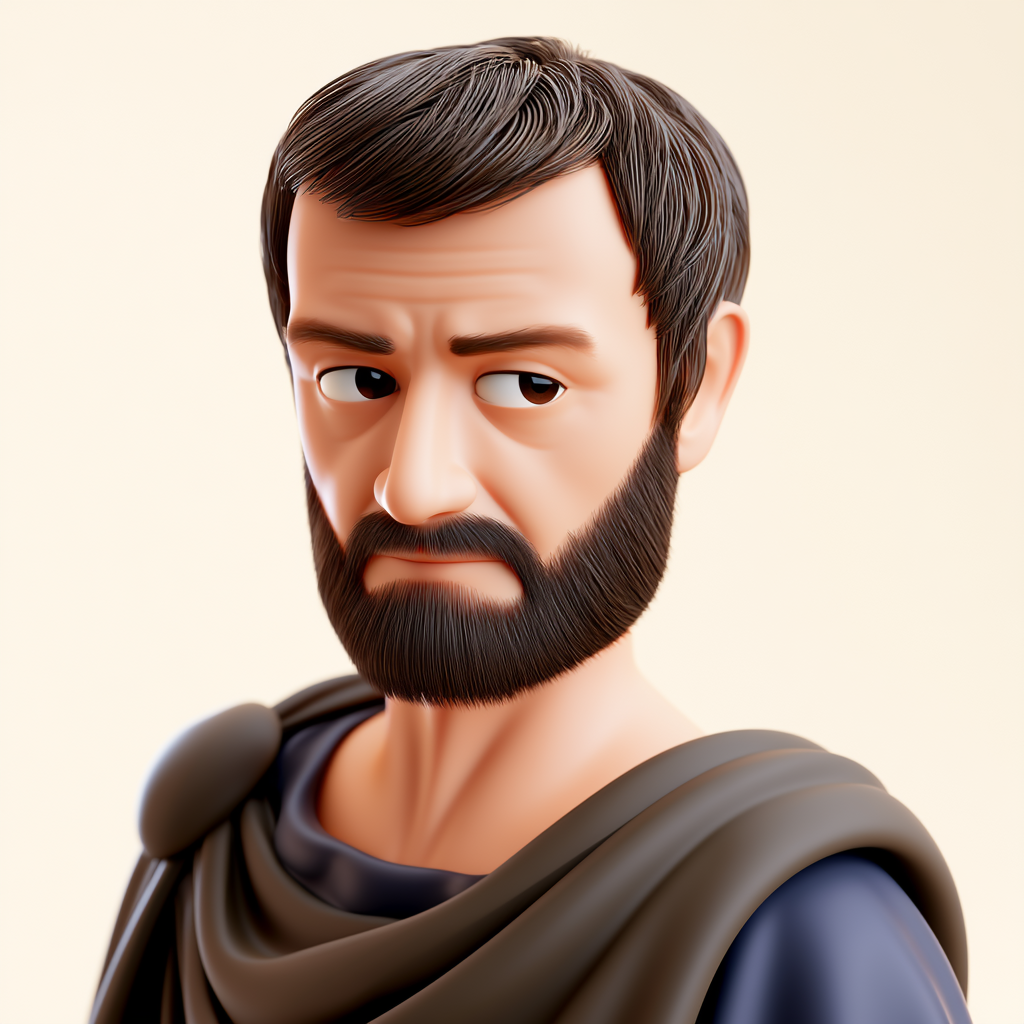
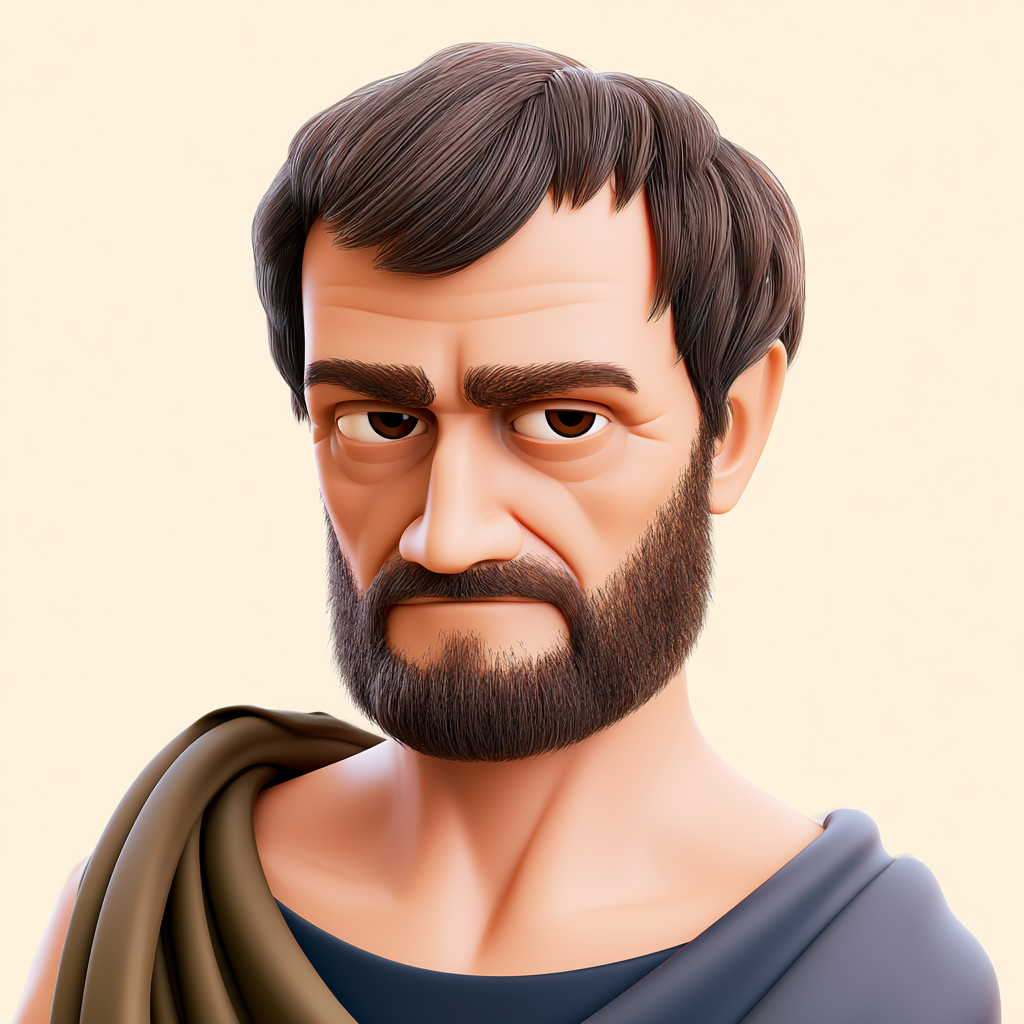
feat: intro block content, dark/light mode, portraits, account fixes, text padding fix

diff --git a/constants/data.ts b/constants/data.ts
@@ -1,5 +1,13 @@
 export const blocks = [
   {
+    id: 'intro',
+    name: 'Introducción',
+    era: 'Antes de empezar',
+    symbol: 'lens',
+    isFree: true,
+    authors: ['intro-1', 'intro-2', 'intro-3', 'intro-4'],
+  },
+  {
     id: 'b0',
     name: 'Orígenes filosóficos',
     era: 'Antigüedad y Edad Media',
@@ -50,6 +58,87 @@ export const blocks = [
 ];
 
 export const authors = [
+
+  {
+    id: 'intro-1',
+    name: 'El origen de la pregunta',
+    subtitle: 'Mesopotamia y Egipto',
+    dates: '3000–500 a.C.',
+    blockId: 'intro',
+    layerType: 'two',
+    surface: {
+      question: '¿Sabías que el sufrimiento psicológico buscó nombre y cuidado miles de años antes de que existiera la psicología?',
+      text: `Hace cinco mil años, en Mesopotamia, alguien que no podía dormir — que veía cosas que otros no veían, que sentía un peso que no tenía nombre — buscaba a alguien que lo escuchara. No un médico. No un psicólogo. Esos nombres no existían todavía. Solo alguien que supiera qué hacer con ese dolor.\n\nLo interesante no es que eso haya ocurrido. Lo interesante es que nunca dejó de ocurrir.\n\nEn esa misma época, en Egipto, los médicos ya describían algo que hoy reconoceríamos como tristeza profunda — el retiro del mundo, la incapacidad de actuar, la sensación de que nada tiene sentido. Y entre sus tratamientos incluían una práctica que llamaban "hablar al corazón". La primera referencia conocida a la palabra como herramienta terapéutica. Tres mil años antes de que alguien la llamara psicoterapia.\n\nEso es lo que encontrarás en este recorrido: que las preguntas que te haces hoy tienen historia. Que el sufrimiento humano siempre buscó nombre, explicación y cuidado. Y que entender ese camino — desde sus orígenes hasta hoy — cambia cómo te ves a ti mismo y cómo ves a los demás.`,
+      closingLine: 'Lo interesante no es que eso haya ocurrido. Lo interesante es que nunca dejó de ocurrir.',
+    },
+    concept: {
+      question: '¿Qué tienen en común las culturas curativas de todas las épocas?',
+      text: `Lo que Mesopotamia y Egipto tenían — y que a veces la psicología moderna olvida — era una comprensión simple pero poderosa: el sufrimiento psicológico es real, merece atención, y no hay que enfrentarlo solo.\n\nEl especialista mesopotámico que atendía a alguien en crisis no le decía que estaba simulando ni que era débil. Identificaba lo que ocurría, le daba un nombre y proponía algo concreto. La estructura era: síntoma — especialista — procedimiento. Eso, en su forma más básica, es exactamente lo que sigue ocurriendo hoy en cualquier consulta de psicología o psiquiatría.\n\nSiglos después, el psiquiatra Jerome Frank estudió culturas curativas de todo el mundo y encontró algo sorprendente: todas, sin excepción, compartían cuatro elementos. Una relación con alguien percibido como sanador. Un espacio que la comunidad reconoce como lugar legítimo para sanar. Una explicación que da sentido al sufrimiento. Y un procedimiento que tanto el sanador como quien sufre creen que puede ayudar.\n\nMesopotamia tenía los cuatro. La psicoterapia contemporánea también los tiene. La forma cambió. La estructura, no.`,
+      closingLine: '¿Hay algo sobre ti mismo o sobre los demás que siempre quisiste entender mejor? Ese es exactamente el tipo de pregunta que este recorrido existe para acompañar.',
+    },
+  },
+
+  {
+    id: 'intro-2',
+    name: 'Qué es y qué no es la psicología',
+    subtitle: 'Desmonta mitos, define el campo honestamente',
+    dates: '',
+    blockId: 'intro',
+    layerType: 'two',
+    surface: {
+      question: '¿Qué imagen tienes de la psicología?',
+      text: `La psicología no es lo que aparece en las películas.\n\nNo es un consultorio oscuro donde alguien te pide que hables de tu madre. No es leer la mente. No es tener respuestas para todo lo que te pasa. Y definitivamente no es dividir a las personas en tipos — los introvertidos por acá, los extrovertidos por allá.\n\nLo que la psicología sí es resulta más interesante y más útil que cualquiera de esas versiones. Es el estudio sistemático de la experiencia y el comportamiento humano — cómo percibimos, cómo pensamos, cómo sentimos, cómo actuamos, y por qué hacemos lo que hacemos aunque a veces no tenga ningún sentido.\n\nNo tiene una sola respuesta para esas preguntas. Tiene varias escuelas, varios métodos, varios marcos. Eso no es una debilidad — es la señal de que el objeto de estudio es genuinamente complejo.\n\nLo que encontrarás en este recorrido no es la verdad sobre la mente humana. Es algo mejor: las mejores preguntas que la humanidad ha sabido hacerse sobre ella, y los marcos más sólidos que ha construido para responderlas.`,
+      closingLine: 'Lo que encontrarás aquí no es la verdad sobre la mente humana. Es algo mejor.',
+    },
+    concept: {
+      question: '¿Qué ganas cuando aprendes a usar varios marcos en lugar de buscar el correcto?',
+      text: `Hay una distinción que vale la pena tener clara desde el principio: la psicología no es una sola cosa.\n\nEs, al mismo tiempo, una ciencia básica que estudia procesos como la memoria, la percepción y la atención. Una ciencia aplicada que desarrolla intervenciones para el sufrimiento psicológico. Una disciplina con raíces filosóficas que se remontan dos mil quinientos años. Y un campo en conversación permanente con la neurociencia, la biología, la sociología y la cultura.\n\nA lo largo de este recorrido vas a encontrar pensadores que se contradicen entre sí. Freud y Skinner no estarían de acuerdo en casi nada. Rogers y Beck tampoco. Eso no significa que uno tenga razón y el otro esté equivocado — significa que cada uno ilumina algo que el otro no ve.\n\nLa forma más honesta de acercarse a la psicología no es buscar el marco correcto. Es aprender a usar varios marcos como lentes distintos sobre el mismo objeto. Algunos te van a servir más que otros. Pero cuantos más tengas, más clara se vuelve la imagen.`,
+      closingLine: 'Eso es exactamente lo que Psylens intenta hacer: darte más lentes.',
+    },
+  },
+
+  {
+    id: 'intro-3',
+    name: 'Por qué este camino tiene este orden',
+    subtitle: 'Por qué Aristóteles viene antes que Beck',
+    dates: '',
+    blockId: 'intro',
+    layerType: 'two',
+    surface: {
+      question: '¿Por qué empezar por los griegos y no directamente con Freud?',
+      text: `Podrías preguntarte por qué este recorrido empieza con filósofos griegos y no directamente con Freud o con la psicoterapia moderna.\n\nLa respuesta corta es que las ideas no aparecen de la nada.\n\nEn los años sesenta, un psiquiatra llamado Aaron Beck propuso algo que en su momento sonó radical: que el sufrimiento psicológico no viene solo de lo que nos pasa, sino de cómo interpretamos lo que nos pasa. Que si alguien te ignora en la calle y concluyes automáticamente "me odia" o "soy invisible", esa conclusión — no el hecho — es lo que produce el malestar.\n\nLo que Beck probablemente no sabía es que Aristóteles había llegado a algo muy similar dos mil años antes. Para Aristóteles, las emociones no eran reacciones que simplemente te ocurrían — eran formas de leer la situación. El miedo aparece cuando percibes que algo te amenaza. La tristeza, cuando percibes que perdiste algo valioso. Cada emoción lleva dentro una interpretación del mundo. Y si la interpretación cambia, la emoción también cambia.\n\nLas ideas viajan a través del tiempo aunque no siempre sepamos de dónde vienen. Este recorrido sigue el orden cronológico porque ese orden tiene una lógica. Cada autor respondió a alguien que vino antes. Entender ese hilo hace que cada idea tenga más peso.`,
+      closingLine: 'Cada autor respondió a alguien que vino antes. Entender ese hilo hace que cada idea tenga más peso.',
+    },
+    concept: {
+      question: '¿Qué se pierde cuando aprendes solo los resultados y no el contexto?',
+      text: `Hay otra razón para el orden cronológico que es más personal.\n\nCuando aprendes solo los resultados — las técnicas, los modelos, los nombres — tienes herramientas. Pero no sabes por qué esas herramientas tienen la forma que tienen. No sabes qué pregunta intentaban responder. Y eso importa, porque una herramienta sin contexto puede usarse mal.\n\nLos filósofos estoicos — Epicteto, Marco Aurelio, Séneca — enseñaban que el sufrimiento no viene de los hechos sino de cómo los juzgamos. Que entre lo que ocurre y lo que sentimos hay siempre una interpretación, y que esa interpretación es el único lugar donde tenemos algo de control. Esa idea, formulada hace dos mil años en el Mediterráneo, es el fundamento filosófico de buena parte de la psicoterapia contemporánea. Llegará más adelante en el recorrido con nombres y métodos distintos. Pero la raíz está aquí.\n\nEl orden cronológico también hace algo más sutil: te muestra que la psicología es un proyecto colectivo e inacabado. Que cada autor aportó algo y dejó preguntas abiertas. Que lo que hoy parece obvio fue, en su momento, una ruptura radical con todo lo anterior.\n\nY que las preguntas más importantes — qué somos, por qué sufrimos, cómo cambiamos — siguen siendo preguntas.`,
+      closingLine: 'El recorrido no termina con una respuesta definitiva. Termina con una forma más clara de seguir preguntando.',
+    },
+  },
+
+  {
+    id: 'intro-4',
+    name: 'Así funciona cada capa',
+    subtitle: 'Superficie, Concepto y Fondo',
+    dates: '',
+    blockId: 'intro',
+    layerType: 'three',
+    surface: {
+      question: '¿Cómo funciona este recorrido?',
+      text: `A partir de ahora, cada autor que encuentres en el camino tiene tres capas.\n\nLa primera es esta — la Superficie. Siempre empieza cerca: una situación reconocible, una pregunta que no requiere ningún conocimiento previo. No necesitas haber estudiado psicología ni filosofía para seguirla. Solo necesitas estar dispuesto a mirar.`,
+      closingLine: 'Es la puerta de entrada a cada idea. Y todas las puertas de este recorrido están abiertas.',
+    },
+    concept: {
+      question: '¿Cuál es la diferencia entre reconocer una idea y poder usarla?',
+      text: `La segunda capa es donde aparece el mecanismo.\n\nSi la Superficie te sitúa — te muestra el paisaje desde afuera — el Concepto te lleva adentro. Aquí es donde los términos técnicos entran al texto, siempre explicados, nunca como adorno. Donde se describe cómo funciona una idea, no solo qué es.\n\nNo es más difícil. Es más preciso. La diferencia entre saber que el miedo "tiene que ver con amenazas" y entender que para Aristóteles el miedo era una lectura de la situación — una interpretación de lo que está pasando — es la diferencia entre reconocer algo y poder usarlo.`,
+      closingLine: 'El Concepto existe para darte ese segundo nivel. El que convierte la intuición en comprensión.',
+    },
+    fondo: {
+      question: '¿Qué convierte la información en lente?',
+      text: `La tercera capa es la más lenta — en el buen sentido.\n\nNo explica un mecanismo. Pregunta qué implica ese mecanismo. Qué cambió en la historia del pensamiento cuando alguien propuso esa idea. Cómo conecta con lo que vino antes y con lo que vendrá después.\n\nEs la capa donde las ideas dejan de ser información y se convierten en lentes. Donde Schopenhauer deja de ser un nombre en una línea de tiempo y se convierte en alguien que vio algo que nadie había visto antes — y que Freud vería de nuevo, décadas después, por otro camino.\n\nEs la capa que más se queda.`,
+      closingLine: 'Ya sabes por qué estás aquí. Ahora comienza tu propio camino.',
+    },
+  },
 
   {
     id: 'heraclito-democrito',

diff --git a/app/(tabs)/index.tsx b/app/(tabs)/index.tsx
@@ -467,6 +467,7 @@ function makeStyles(theme: Theme) {
       fontWeight: '700',
       fontFamily: 'PlayfairDisplay_700Bold',
       color: theme.text,
+      paddingRight: 130,
       marginBottom: spacing.xs,
     },
     continueDates: {

diff --git a/app/(tabs)/yo.tsx b/app/(tabs)/yo.tsx
@@ -204,6 +204,7 @@ export default function YoScreen() {
               'psylens_is_premium',
               'psylens_unlocked',
               'psylens_days_visited',
+              'psylens_user_name',
             ]).catch(() => {});
             router.replace('/splash');
           },

diff --git a/docs/psylence_intro_block.md b/docs/psylence_intro_block.md
@@ -1,0 +1,201 @@
+# Psylence — Bloque de Introducción
+## Contenido completo listo para integrar a constants/data.ts
+
+---
+
+## Estructura del bloque
+
+```
+BLOQUE · INTRODUCCIÓN
+"Antes de empezar, entiende por qué estás aquí"
+
+├── Intro 1 — El origen de la pregunta
+│   2 capas: Entrada + Profundidad
+│
+├── Intro 2 — Qué es y qué no es la psicología
+│   2 capas: Entrada + Profundidad
+│
+├── Intro 3 — Por qué este camino tiene este orden
+│   2 capas: Entrada + Profundidad
+│
+└── Intro 4 — Así funciona cada capa
+    3 capas: Superficie + Concepto + Fondo
+    Cierre: "Ya sabes por qué estás aquí. Ahora comienza tu propio camino."
+```
+
+**Notas de implementación:**
+- Intros 1, 2 y 3 tienen 2 capas (Entrada + Profundidad), no 3
+- Intro 4 tiene 3 capas (Superficie + Concepto + Fondo)
+- El bloque completo debe terminarse para desbloquear el Bloque 0
+- Sin portrait individual — usar SVG abstracto o ilustración
+
+---
+
+## Intro 1 — El origen de la pregunta
+*Siempre quisimos entender*
+
+### ENTRADA
+
+Hace cinco mil años, en Mesopotamia, alguien que no podía dormir — que veía cosas que otros no veían, que sentía un peso que no tenía nombre — buscaba a alguien que lo escuchara. No un médico. No un psicólogo. Esos nombres no existían todavía. Solo alguien que supiera qué hacer con ese dolor.
+
+Lo interesante no es que eso haya ocurrido. Lo interesante es que nunca dejó de ocurrir.
+
+En esa misma época, en Egipto, los médicos ya describían algo que hoy reconoceríamos como tristeza profunda — el retiro del mundo, la incapacidad de actuar, la sensación de que nada tiene sentido. Y entre sus tratamientos incluían una práctica que llamaban "hablar al corazón". La primera referencia conocida a la palabra como herramienta terapéutica. Tres mil años antes de que alguien la llamara psicoterapia.
+
+Eso es lo que encontrarás en este recorrido: que las preguntas que te haces hoy tienen historia. Que el sufrimiento humano siempre buscó nombre, explicación y cuidado. Y que entender ese camino — desde sus orígenes hasta hoy — cambia cómo te ves a ti mismo y cómo ves a los demás.
+
+### PROFUNDIDAD
+
+Lo que Mesopotamia y Egipto tenían — y que a veces la psicología moderna olvida — era una comprensión simple pero poderosa: el sufrimiento psicológico es real, merece atención, y no hay que enfrentarlo solo.
+
+El especialista mesopotámico que atendía a alguien en crisis no le decía que estaba simulando ni que era débil. Identificaba lo que ocurría, le daba un nombre y proponía algo concreto. La estructura era: síntoma — especialista — procedimiento. Eso, en su forma más básica, es exactamente lo que sigue ocurriendo hoy en cualquier consulta de psicología o psiquiatría.
+
+Siglos después, el psiquiatra Jerome Frank estudió culturas curativas de todo el mundo y encontró algo sorprendente: todas, sin excepción, compartían cuatro elementos. Una relación con alguien percibido como sanador. Un espacio que la comunidad reconoce como lugar legítimo para sanar. Una explicación que da sentido al sufrimiento. Y un procedimiento que tanto el sanador como quien sufre creen que puede ayudar.
+
+Mesopotamia tenía los cuatro. La psicoterapia contemporánea también los tiene. La forma cambió. La estructura, no.
+
+*¿Hay algo sobre ti mismo o sobre los demás que siempre quisiste entender mejor? Ese es exactamente el tipo de pregunta que este recorrido existe para acompañar.*
+
+---
+
+## Intro 2 — Qué es y qué no es la psicología
+*Desmonta mitos, define el campo honestamente*
+
+### ENTRADA
+
+La psicología no es lo que aparece en las películas.
+
+No es un consultorio oscuro donde alguien te pide que hables de tu madre. No es leer la mente. No es tener respuestas para todo lo que te pasa. Y definitivamente no es dividir a las personas en tipos — los introvertidos por acá, los extrovertidos por allá.
+
+Lo que la psicología sí es resulta más interesante y más útil que cualquiera de esas versiones. Es el estudio sistemático de la experiencia y el comportamiento humano — cómo percibimos, cómo pensamos, cómo sentimos, cómo actuamos, y por qué hacemos lo que hacemos aunque a veces no tenga ningún sentido.
+
+No tiene una sola respuesta para esas preguntas. Tiene varias escuelas, varios métodos, varios marcos. Eso no es una debilidad — es la señal de que el objeto de estudio es genuinamente complejo.
+
+Lo que encontrarás en este recorrido no es la verdad sobre la mente humana. Es algo mejor: las mejores preguntas que la humanidad ha sabido hacerse sobre ella, y los marcos más sólidos que ha construido para responderlas.
+
+### PROFUNDIDAD
+
+Hay una distinción que vale la pena tener clara desde el principio: la psicología no es una sola cosa.
+
+Es, al mismo tiempo, una ciencia básica que estudia procesos como la memoria, la percepción y la atención. Una ciencia aplicada que desarrolla intervenciones para el sufrimiento psicológico. Una disciplina con raíces filosóficas que se remontan dos mil quinientos años. Y un campo en conversación permanente con la neurociencia, la biología, la sociología y la cultura.
+
+A lo largo de este recorrido vas a encontrar pensadores que se contradicen entre sí. Freud y Skinner no estarían de acuerdo en casi nada. Rogers y Beck tampoco. Eso no significa que uno tenga razón y el otro esté equivocado — significa que cada uno ilumina algo que el otro no ve.
+
+La forma más honesta de acercarse a la psicología no es buscar el marco correcto. Es aprender a usar varios marcos como lentes distintos sobre el mismo objeto. Algunos te van a servir más que otros. Pero cuantos más tengas, más clara se vuelve la imagen.
+
+*Eso es exactamente lo que Psylence intenta hacer: darte más lentes.*
+
+---
+
+## Intro 3 — Por qué este camino tiene este orden
+*Por qué Aristóteles viene antes que Beck*
+
+### ENTRADA
+
+Podrías preguntarte por qué este recorrido empieza con filósofos griegos y no directamente con Freud o con la psicoterapia moderna.
+
+La respuesta corta es que las ideas no aparecen de la nada.
+
+En los años sesenta, un psiquiatra llamado Aaron Beck propuso algo que en su momento sonó radical: que el sufrimiento psicológico no viene solo de lo que nos pasa, sino de cómo interpretamos lo que nos pasa. Que si alguien te ignora en la calle y concluyes automáticamente "me odia" o "soy invisible", esa conclusión — no el hecho — es lo que produce el malestar.
+
+Lo que Beck probablemente no sabía es que Aristóteles había llegado a algo muy similar dos mil años antes. Para Aristóteles, las emociones no eran reacciones que simplemente te ocurrían — eran formas de leer la situación. El miedo aparece cuando percibes que algo te amenaza. La tristeza, cuando percibes que perdiste algo valioso. Cada emoción lleva dentro una interpretación del mundo. Y si la interpretación cambia, la emoción también cambia.
+
+Las ideas viajan a través del tiempo aunque no siempre sepamos de dónde vienen. Este recorrido sigue el orden cronológico porque ese orden tiene una lógica. Cada autor respondió a alguien que vino antes. Entender ese hilo hace que cada idea tenga más peso.
+
+### PROFUNDIDAD
+
+Hay otra razón para el orden cronológico que es más personal.
+
+Cuando aprendes solo los resultados — las técnicas, los modelos, los nombres — tienes herramientas. Pero no sabes por qué esas herramientas tienen la forma que tienen. No sabes qué pregunta intentaban responder. Y eso importa, porque una herramienta sin contexto puede usarse mal.
+
+Los filósofos estoicos — Epicteto, Marco Aurelio, Séneca — enseñaban que el sufrimiento no viene de los hechos sino de cómo los juzgamos. Que entre lo que ocurre y lo que sentimos hay siempre una interpretación, y que esa interpretación es el único lugar donde tenemos algo de control. Esa idea, formulada hace dos mil años en el Mediterráneo, es el fundamento filosófico de buena parte de la psicoterapia contemporánea. Llegará más adelante en el recorrido con nombres y métodos distintos. Pero la raíz está aquí.
+
+El orden cronológico también hace algo más sutil: te muestra que la psicología es un proyecto colectivo e inacabado. Que cada autor aportó algo y dejó preguntas abiertas. Que lo que hoy parece obvio fue, en su momento, una ruptura radical con todo lo anterior.
+
+Y que las preguntas más importantes — qué somos, por qué sufrimos, cómo cambiamos — siguen siendo preguntas.
+
+*El recorrido no termina con una respuesta definitiva. Termina con una forma más clara de seguir preguntando.*
+
+---
+
+## Intro 4 — Así funciona cada capa
+*El usuario reconoce lo que está a punto de vivir*
+
+### SUPERFICIE
+
+A partir de ahora, cada autor que encuentres en el camino tiene tres capas.
+
+La primera es esta — la Superficie. Siempre empieza cerca: una situación reconocible, una pregunta que no requiere ningún conocimiento previo. No necesitas haber estudiado psicología ni filosofía para seguirla. Solo necesitas estar dispuesto a mirar.
+
+Es la puerta de entrada a cada idea. Y todas las puertas de este recorrido están abiertas.
+
+### CONCEPTO
+
+La segunda capa es donde aparece el mecanismo.
+
+Si la Superficie te sitúa — te muestra el paisaje desde afuera — el Concepto te lleva adentro. Aquí es donde los términos técnicos entran al texto, siempre explicados, nunca como adorno. Donde se describe cómo funciona una idea, no solo qué es.
+
+No es más difícil. Es más preciso. La diferencia entre saber que el miedo "tiene que ver con amenazas" y entender que para Aristóteles el miedo era una lectura de la situación — una interpretación de lo que está pasando — es la diferencia entre reconocer algo y poder usarlo.
+
+El Concepto existe para darte ese segundo nivel. El que convierte la intuición en comprensión.
+
+### FONDO
+
+La tercera capa es la más lenta — en el buen sentido.
+
+No explica un mecanismo. Pregunta qué implica ese mecanismo. Qué cambió en la historia del pensamiento cuando alguien propuso esa idea. Cómo conecta con lo que vino antes y con lo que vendrá después.
+
+Es la capa donde las ideas dejan de ser información y se convierten en lentes. Donde Schopenhauer deja de ser un nombre en una línea de tiempo y se convierte en alguien que vio algo que nadie había visto antes — y que Freud vería de nuevo, décadas después, por otro camino.
+
+Es la capa que más se queda.
+
+*Ya sabes por qué estás aquí. Ahora comienza tu propio camino.*
+
+---
+
+## Notas para implementación en código
+
+### Estructura de datos sugerida para constants/data.ts
+
+```typescript
+// Nuevo bloque de introducción — va ANTES de b0
+{
+  id: 'intro',
+  name: 'Introducción',
+  era: 'Antes de empezar',
+  symbol: 'lens',
+  isFree: true,
+  authors: ['intro-1', 'intro-2', 'intro-3', 'intro-4'],
+}
+
+// Autores de introducción
+{
+  id: 'intro-1',
+  name: 'El origen de la pregunta',
+  subtitle: 'Mesopotamia y Egipto',
+  dates: '3000–500 a.C.',
+  blockId: 'intro',
+  layerType: 'two', // Entrada + Profundidad (no las 3 capas estándar)
+  surface: { ... },  // usar como "Entrada"
+  concept: { ... },  // usar como "Profundidad"
+  // sin fondo
+}
+
+// Intro 4 usa las 3 capas estándar
+{
+  id: 'intro-4',
+  name: 'Así funciona cada capa',
+  subtitle: 'Superficie, Concepto y Fondo',
+  dates: '',
+  blockId: 'intro',
+  layerType: 'three',
+  surface: { ... },
+  concept: { ... },
+  fondo: { ... },
+}
+```
+
+### Reglas de desbloqueo
+- El bloque 'intro' se activa inmediatamente al terminar el onboarding
+- b0 se desbloquea solo cuando intro-1, intro-2, intro-3 e intro-4 están completos
+- Las capas dentro de cada intro se desbloquean en orden